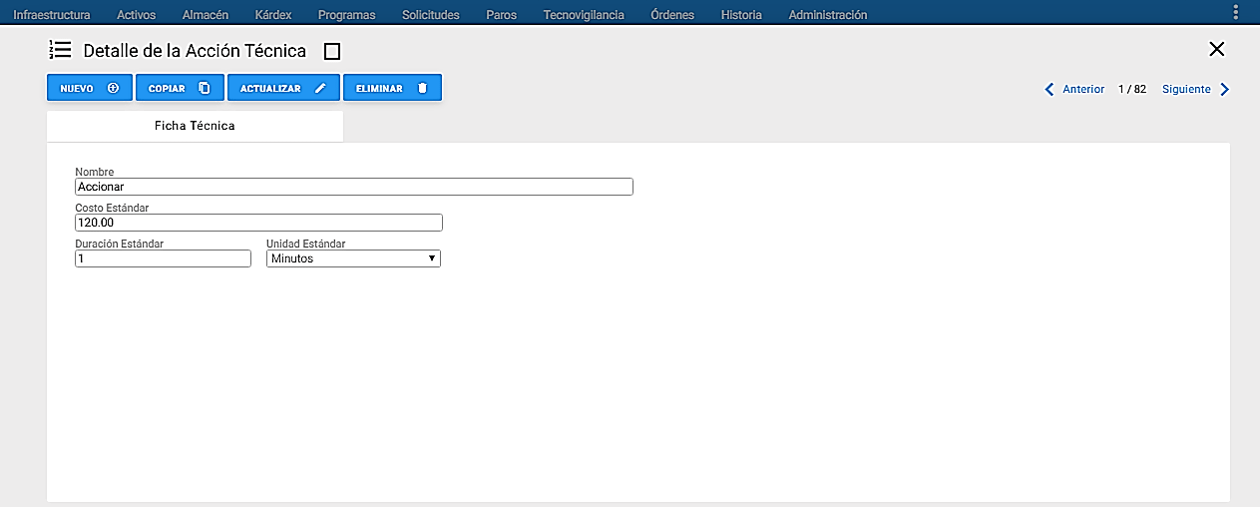
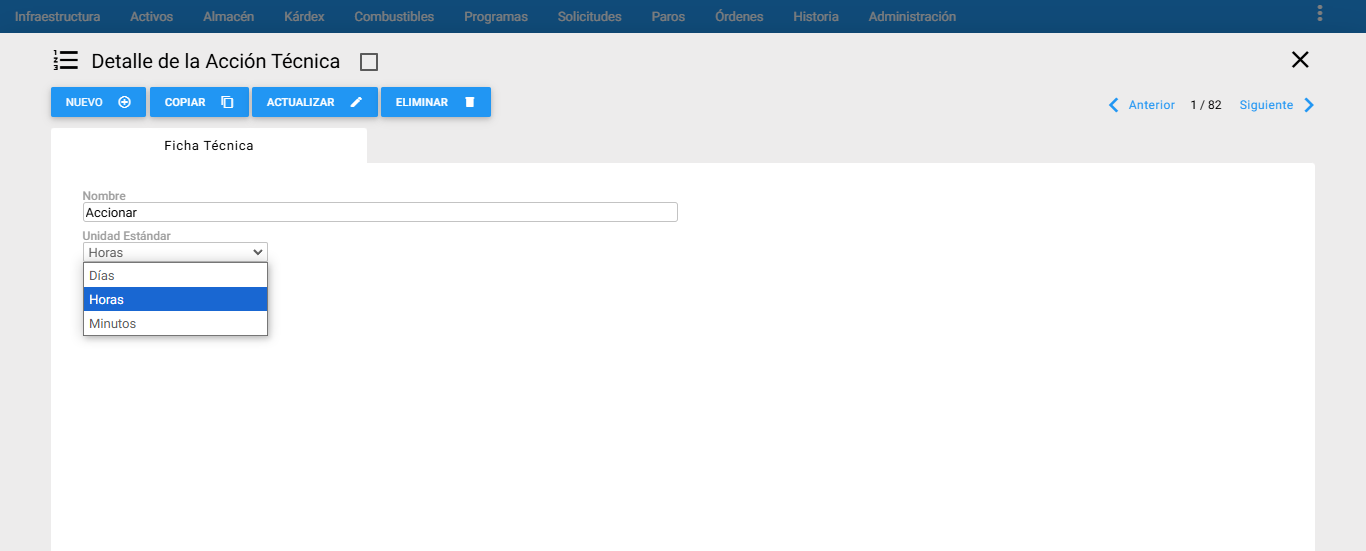
actualización IF

diff --git a/_docs/02_03_tables.md b/_docs/02_03_tables.md
@@ -792,30 +792,30 @@ Donde los dos primeros caracteres significan:
 ![Procesar imagen](../../assets/images/cap02/chp02_img53.png)
 _**Imagen 52.** Ventana Detalle Tipos de Actividad_
 
-En la gráfica anterior, Ventana Detalle del Tipo de Actividad, se aprecian sus componentes y sus respectivos contenidos. Se encuentra la información relevante al Tipo de Actividad seleccionado en el Visor.
+En la gráfica anterior, Ventana Detalle del Tipo de Actividad, se encuentra la información relevante al Tipo de Actividad seleccionado en el Visor.
 
-A continuación se describen los campos que componen el registro, sobre cada campo se da una breve explicación:
+Sobre cada campo se da una breve explicación:
 
-**Nombre TA:** En este campo se registra el Tipo de Actividad. La capacidad  del  campo es de 50 caracteres.
+**Nombre TA:** En este campo se registra el Tipo de Actividad que describa mejor el Tipo de Mantenimiento. La capacidad  del  campo es de 50 caracteres.
 
-**Tipo de Mantenimiento (TM):** Indica el Tipo de Mantenimiento al cual se relaciona el Tipo de Actividad registrado: Preventivo, Preventivo Manual, Predictivo, Inspección, Lubricación, Metrología, Correctivo, Otro-Mantto, Otro.
+**Tipo de Mantenimiento (TM):** Indica el Tipo de Mantenimiento al cual se relaciona el Tipo de Actividad se debe descolgar el campo y elegir uno de los siguientes: Preventivo, Preventivo Manual, Predictivo, Inspección, Lubricación, Metrología, Correctivo, Otro-Mantto, Otro.
 
 ## Almacenes
 
-Es la tabla de Infraestructura en la que se definen los distintos Almacenes, Bodegas o Depósitos de: Materias Primas, Materiales y Repuestos o elementos generales de una organización.
+Es la tabla de Infraestructura en la que se definen los distintos Almacenes, Bodegas o Depósitos de: Materias Primas, Insumos, Materiales y Repuestos o elementos generales de una organización.
 
-El **AM** PRO es un sistema multicompañía y multialmacén, por tanto es posible definir múltiples almacenes en la base de datos para cada compañía.
+**AM** versión PRO es un sistema multicompañía y multialmacén, por tanto es posible definir múltiples almacenes en la base de datos para cada compañía.
 
-El **AM** ST es un sistema monocompañía y multialmacén.
+**AM** versión ST es un sistema monocompañía y multialmacén.
 
 ![Procesar imagen](../../assets/images/cap02/chp02_img22.png)
 _**Imagen 53.** Ventana Detalle IF Almacén_
 
-En la gráfica anterior, Ventana Almacén, se aprecian sus componentes y sus respectivos contenidos. En la ventana Detalle de Almacenes se encuentra la información relevante al Almacén seleccionado en el Visor.
+En la gráfica anterior, Ventana Detalle Almacén, se encuentra la información relevante al Almacén seleccionado en el Visor.
 
 A continuación se describen los campos que componen el registro:
 
-**Código:** Este campo recibe un número de máximo dos dígitos, con el cual se identifica la bodega o Almacén de Equipos o repuestos.
+**Código:** Este campo recibe un número de máximo dos dígitos, asignado automáticamente ppor el sistema con el cual se identifica la bodega o Almacén de Equipos o Repuestos.
 
 **Nombre:** Se define el nombre del Almacén.
 
@@ -833,7 +833,7 @@ Utilizar uno u otro método depende de si el Almacén es contable o no. Se recom
 
 Esta funcionalidad, permitirá a futuro definir si el Almacén seleccionado es Contable, es decir, tendrá una interacción con el sistema contable de la organización la cual generara un costo o factura de venta; y No Contable hace referencia al Almacén que guarda el inventario de Repuestos para simple funcionalidad del sistema **AM**. Por defecto, cuando se crea un almacén el tipo se define con NO CONTABLE.
 
-**Almacén Corporativo:** Este switche indica si el almacén al cual se está haciendo referencia es el corporativo. Cuando se define si es el almacén corporativo, se declara con la palabra **“SI”**, en caso contrario se define con la palabra **“NO”**. Para definir el almacén corporativo se realiza en el módulo de Administración, en la opción de Valores por defecto, en la etiqueta General, existe la opción de **“Almacén corporativo”** con un combo desplegable para escoger cual es el almacén.
+**Almacén Corporativo:** Este switche indica si el almacén al cual se está haciendo referencia es el corporativo. Cuando se define si es el almacén corporativo, se declara con la palabra **“SI”**, en caso contrario se define con la palabra **“NO”**. Para definir el almacén corporativo se realiza en el módulo de <a class="btn cl-white bg-blue px-6"> Administración </a>, en la opción **Valores por defecto**, en la etiqueta Almacén, existe la opción de **“Almacén corporativo”** con un combo desplegable para escoger cual es el almacén.
 
 **Comentario:** Aquí se ingresan los comentarios sobre el Almacén, Centro de Costo o sobre un Cliente, representado por su Centro de Costo.
 
@@ -887,7 +887,7 @@ A continuación se describe el campo que compone el registro:
 
 ## Características
 
-Es una tabla conformada por los nombres de las Características propias de los Activos/Equipos o de los Repuestos, que se utilizan al definir la porción variable de su ficha técnica. En esta tabla sólo se ingresan los nombres de las Características o los parámetros-características de los Activos/Equipos y Repuestos. Se cuenta con 30 dígitos para ingresar la característica deseada.
+Es una tabla conformada por los nombres de las Características propias de los Activos/Equipos  que se utilizan al definir la porción variable de su ficha técnica. En esta tabla sólo se ingresan los nombres de las Características o los parámetros-características de los Activos/Equipos y Repuestos. Se cuenta con 30 dígitos para ingresar la característica deseada.
 
 El valor y las unidades correspondientes a cada Característica se ingresan en la ficha técnica del Activo o del Repuesto.
 
@@ -1052,17 +1052,13 @@ Una vez definidas las Acciones Técnicas, es posible incluir una o varias de ell
 ![Procesar imagen](../../assets/images/cap02/chp02_img55.png)
 _**Imagen 64.** Ventana Detalle Acción Técnica_
 
-En la gráfica anterior, Ventana Detalle de la Acción Técnica, se aprecian sus componentes y sus respectivos contenidos. Se encuentra la información relevante a la Acción Técnica seleccionada en el Visor.
+En la gráfica anterior, Ventana Detalle de la Acción Técnica, se encuentra la información relevante a la Acción Técnica seleccionada en el Visor.
 
 A continuación se describen los campos que componen el registro.
 
 **Nombre:** Este campo tiene capacidad de 80 caracteres y se describe la Acción Técnica.
 
-**Costo Estándar:** En este campo se registra el costo estándar de la Acción Técnica.
-
-**Duración Estándar:** Se define la duración estándar de ejecución de esa Acción Técnica.
-
-**Unidad Estándar:** Se define la unidad de tiempo estándar correspondiente en días, horas y minutos.
+**Unidad Estándar:** Se define la unidad de tiempo estándar correspondiente en dí as, horas y minutos.
 
 
 ## Causas de Falla
@@ -1174,7 +1170,7 @@ A continuación se describen los campos que componen el registro.
 _**Imagen 66.** Ventana Detalle Causa de Falla (Acción Técnica)_
 
 En la ventana anterior Acciones Tecnicas se seleccionan de la lista desplegable y se
-adicionan con el botón del signo Más <span class="mdi mdi-plus-circle icon white"></span>.
+adicionan con el botón del signo <span class="mdi mdi-plus-circle icon bg-gray cl-blue "></span>
 
 Para desasociar una Acción Técnica de una Causa de Falla, se da clic en la Acción a desasociar y se presiona el icono de Eliminar <span class="mdi mdi-delete"></span>.
 
@@ -1195,7 +1191,7 @@ A continuación se describen los campos que componen el registro:
 
 **Acciones Técnicas:** Es posible asociar a cada Efecto de Falla las Acciones Técnicas que más comúnmente se ejecutan como consecuencia de ésta. Como se menciona en las Causas de Falla, las Acciones Técnicas por Efecto pretenden **“Ubicar la Causa”** y las Acciones Técnicas por Causa pretenden **“Solucionar la Causa”**.
 
-En la ventana anterior, las Acciones Técnicas se seleccionan de la lista despegable y se adicionan con el botón Más <span class="mdi mdi-plus-circle icon white"></span>.
+En la ventana anterior, las Acciones Técnicas se seleccionan de la lista despegable y se adicionan con el botón <span class="mdi mdi-plus-circle icon bg-gray cl-blue "></span>.
 
 Para desasociar una Acción Técnica de un Efecto de Falla, se da clic en la Acción a desasociar y se presiona el icono de basura <span class="mdi mdi-delete"></span>.
 
@@ -1251,7 +1247,7 @@ Los campos de datos que constituyen criterio de selección haciendo parte de la 
 
 **Almacén:** Permite filtrar aquellos Conceptos de Kárdex que fueron asociados al almacén seleccionado. Lista los Almacenes creados en la tabla de Almacenes.
 
-_**Nota:** Es importante tener en cuenta que cuando se están realizando los subgrupos se pueden utilizar uno o varios de los criterios anteriores simultáneamente. Además es posible hacer unión de selecciones. Esto significa que inmediatamente después de haber realizado una selección es posible hacer otra y unir el resultado de las dos. Para ello, tras definir los criterios de la segunda selección se da un clic al botón <a class="btn white">Mas <span class="mdi mdi-plus-circle"></span></a>, en lugar de darlo al botón <a class="btn white">aceptar <span class="mdi mdi-check-circle"></span></a>._
+_**Nota:** Es importante tener en cuenta que cuando se están realizando los subgrupos se pueden utilizar uno o varios de los criterios anteriores simultáneamente. Además es posible hacer unión de selecciones. Esto significa que inmediatamente después de haber realizado una selección es posible hacer otra y unir el resultado de las dos. Para ello, tras definir los criterios de la segunda selección se da un clic al botón <a class="btn white">MAS <span class="mdi mdi-plus-circle"></span></a>, en lugar de darlo al botón <a class="btn white">ACEPTAR <span class="mdi mdi-check-circle"></span></a>._
 
 
 
@@ -1325,9 +1321,9 @@ la funcionalidad del sistema, estos son:
 - **EJ** - En ejecución
 - **K** - Cancelada o no Ejecutada
 - **P** – Pendiente de Ejecución
-- **CE**– Cerrada Ejecutada
+- **CE** – Cerrada Ejecutada
 - **PL** – Planeada
-- **PR**– Programada
+- **PR** – Programada
 - **CP** – Cerrada Parcial 
 
 ![Procesar imagen](../../assets/images/cap02/chp02_img75.png)
@@ -1357,3 +1353,30 @@ Existen siete Estados de FDA que no pueden ser eliminados ni modificados dado qu
 
 ![Procesar imagen](../../assets/images/cap02/chp02_img77.png)
 _**Imagen 77.** Ventana Detalle Estado - Paros_
+
+
+
+## Combustibles 
+
+
+Es la tabla donde se pretende hacer el registro o configurar el nombre y el valor de los combustibles de los vehículos o equipos. 
+
+Aplica para cualquier tipo de vehículos que consuman combustible, híbridos, equipos de carretera (maquinaria amarilla) de baja movilidad ó equipos de apoyo industrial de ninguna movibilidad (calderas, plantas de generación de potencia, etc.). Con la finalidad de hacer un control/seguimiento de consumo en el módulo de <a class="btn cl-white bg-blue px-6"> Combustibles </a>.
+
+
+Ingrese dando un clic en la tabla correspondiente, luego accionar el botón <a class="btn cl-blue bg-white px-3"> NUEVO </a> en la siguiente ventana se encuentra el formulario del combustible a registrar, se da una breve explicación de cada campo:
+
+
+
+![Procesar imagen](../assets/images/cap02/chp02_img82.png)
+_**Imagen 78.** Ventana Detalle Combustibles_
+
+
+**Código:** Se refiere al código con el que se identifica el combustible en la organización. Este campo tiene un límite de 10 caracteres.
+
+**Nombre:**  se registra el nombre del combustible, este campo tiene un límite de 40 caracteres. 
+
+
+**Valor:** Aqui se refiere al costo del combustible según la unidad de medida.
+
+**Unidad de Medida:** Es la abreviatura correspondiente a la medición de la magnitud definida. Aqui se despliegan las abreviaturas definidas en la tabla Unidades de Medida. 
